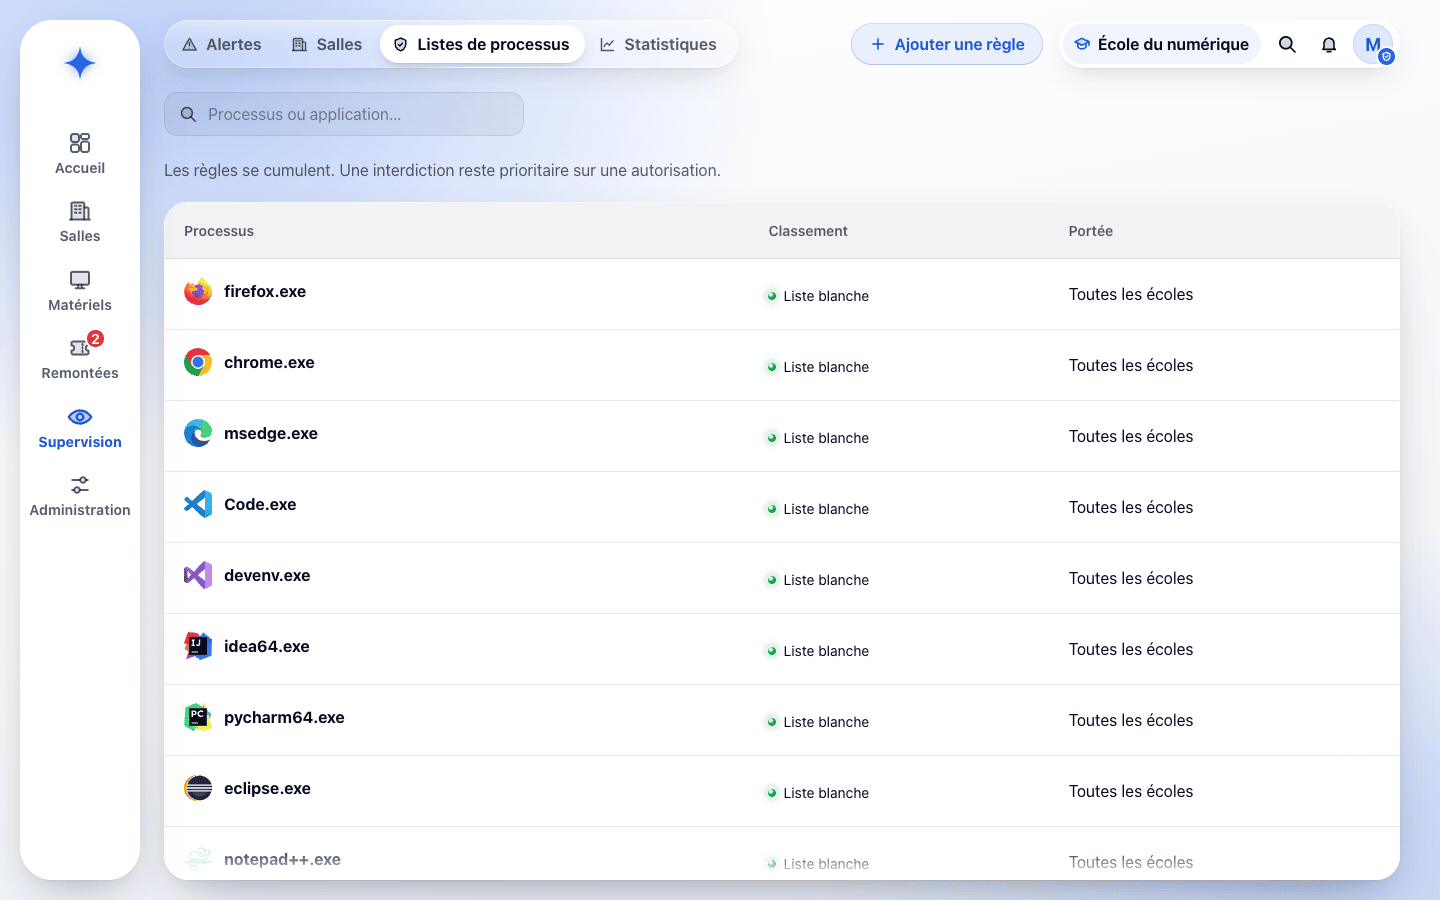
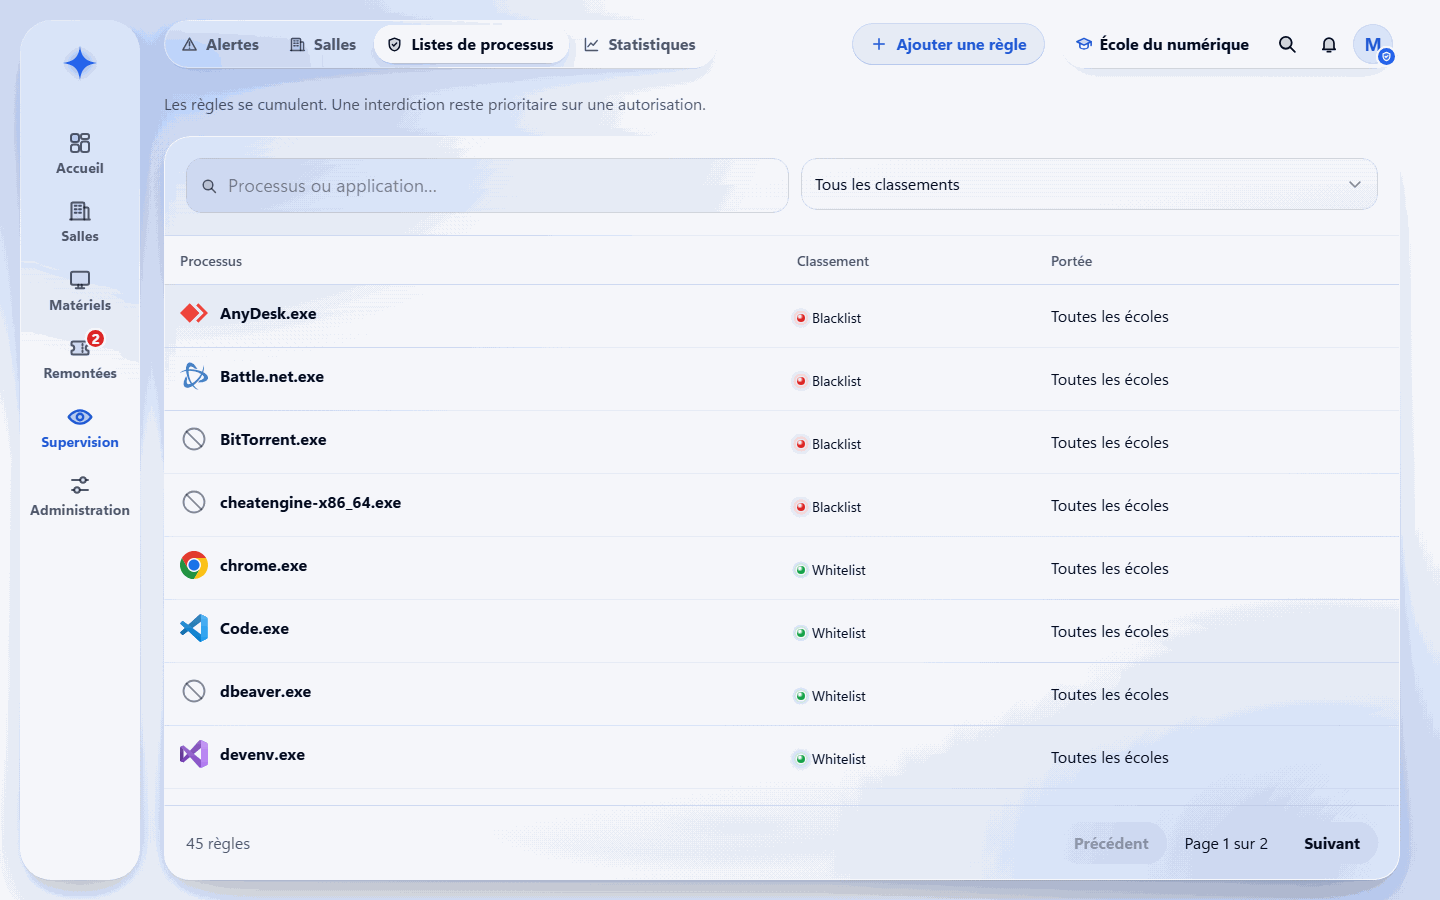
feat(supervision): paginer et filtrer la liste des règles
Liste sur DataPanel : recherche, filtre par classement, ordre alphabétique, 25 par page ; module des règles séparé ; capture 42 régénérée.

diff --git a/application/frontend/src/espace/views/supervision/supervision.tsx b/application/frontend/src/espace/views/supervision/supervision.tsx
@@ -10,28 +10,24 @@
 import { FilterSelect } from '../../ui/filter-select.tsx';
 import { useEffect, useState } from 'react';
 import { useParams, useSearchParams } from 'react-router';
-import { store, currentEcole, me } from '../../core/store.ts';
+import { store } from '../../core/store.ts';
 import { useStore } from '../../hooks/use-store.ts';
-import { scope, index, optionsSalles, detections, batiments, batimentLabel } from '../../core/selectors.ts';
+import { scope, index, optionsSalles, detections } from '../../core/selectors.ts';
 import { uid } from '../../core/dom.ts';
 import { can } from '../../core/permissions.ts';
 import { matcher } from '../../core/search.ts';
-import { CLASSEMENTS } from '#shared/catalog.ts';
-import { processClass, logiciel } from '#shared/referentiels.ts';
+import { processClass } from '#shared/referentiels.ts';
 import { Icon, Tile } from '../../ui/icons.tsx';
 import { AppIcon } from '../../ui/app-icon.tsx';
-import { Sheet, openSheet, confirmSheet, notify } from '../../ui/overlays.tsx';
-import { SheetForm, SheetFormActions } from '../../ui/forms.tsx';
+import { notify } from '../../ui/overlays.tsx';
 import { OpsEmpty, OpsTable, PageHead, PosteEtat, SearchField } from '../../widgets/parts.tsx';
 import { dateTime, clock, num, plural } from '#shared/format.ts';
 import { useTitle } from '../../hooks/use-title.ts';
-import type { Classement, Id, Intervention, Portee, Processus, Regle, WorkspaceView } from '#shared/types.ts';
+import { Rules, openRuleForm } from './supervision-regles.tsx';
+import { Status, processText } from './supervision-parts.tsx';
+import type { Id, Intervention, Processus, WorkspaceView } from '#shared/types.ts';
 
 const time = () => clock(Date.now());
-
-function Status({ c }: { c: Classement }) {
-  return <span className="ops-status"><span className={`led led--${CLASSEMENTS[c]?.led || 'wait'}`}></span>{CLASSEMENTS[c]?.label || c}</span>;
-}
 
 const Empty = ({ title, text }: { title: string; text: string }) => <OpsEmpty icon="supervision" title={title} text={text} />;
 
@@ -42,10 +38,7 @@ const TITLES = {
   statistiques: 'Utilisation du parc',
 };
 type Tab = keyof typeof TITLES;
-const SEARCH: Record<Tab, string> = { alertes: 'Processus, poste, IP ou compte…', salles: 'Poste, processus ou compte…', listes: 'Processus ou application…', statistiques: 'Processus ou application…' };
-
-// Un exécutable se cherche aussi par le nom de son application
-const processText = (nom: string) => `${nom} ${logiciel(nom)?.nom ?? ''}`;
+const SEARCH: Record<Exclude<Tab, 'listes'>, string> = { alertes: 'Processus, poste, IP ou compte…', salles: 'Poste, processus ou compte…', statistiques: 'Processus ou application…' };
 
 export function Supervision() {
   useTitle('Supervision');
@@ -77,18 +70,20 @@ export function Supervision() {
         ? <button className="btn btn--primary" onClick={() => openRuleForm()}><Icon name="plus" size={18} /><span>Ajouter une règle</span></button>
         : <span className="ops-status"><span className="led led--ok"></span><span>Actualisé à {stamp}</span></span>}
     </PageHead>
-    <div className="ops-toolbar">
-      {['salles', 'alertes'].includes(tab) && <div className="field"><span className="field-label">Salle à superviser</span>
-        <FilterSelect aria-label="Salle à superviser" value={salleId} onChange={(e) => setSalleId(e.target.value)} options={[{ value: '', label: 'Choisir une salle' }, ...optionsSalles()]} />
-      </div>}
-      <SearchField compact value={query} onChange={setQuery} placeholder={SEARCH[tab]} label="Rechercher" />
-    </div>
-    <div>
-      {tab === 'listes' ? <Rules query={query} />
-        : tab === 'salles' ? <Rooms salleId={salleId} query={query} relevant={relevant} />
+    {/* Règles : liste filtrable et paginée, avec sa propre recherche */}
+    {tab === 'listes' ? <Rules /> : <>
+      <div className="ops-toolbar">
+        {['salles', 'alertes'].includes(tab) && <div className="field"><span className="field-label">Salle à superviser</span>
+          <FilterSelect aria-label="Salle à superviser" value={salleId} onChange={(e) => setSalleId(e.target.value)} options={[{ value: '', label: 'Choisir une salle' }, ...optionsSalles()]} />
+        </div>}
+        <SearchField compact value={query} onChange={setQuery} placeholder={SEARCH[tab]} label="Rechercher" />
+      </div>
+      <div>
+        {tab === 'salles' ? <Rooms salleId={salleId} query={query} relevant={relevant} />
           : tab === 'statistiques' ? <Stats relevant={relevant} query={query} />
             : <Alerts salleId={salleId} query={query} />}
-    </div>
+      </div>
+    </>}
   </>;
 }
 
@@ -150,41 +145,6 @@ function Alerts({ salleId, query }: { salleId: Id; query: string }) {
   </OpsTable>;
 }
 
-async function deleteRule(id: Id) {
-  try {
-    if (!await confirmSheet({ title: 'Supprimer cette règle ?', message: 'Les autres règles applicables restent actives.' })) return;
-    await store.update('data', (s) => { s.regles = s.regles.filter((r) => r.id !== id); });
-    await store.flush();
-    notify('Règle supprimée', { icon: 'check' });
-  } catch (error) { notify((error as Error).message, { tone: 'danger' }); }
-}
-
-function Rules({ query }: { query: string }) {
-  const e = currentEcole();
-  const matches = matcher(query);
-  const scopeLabel = (r: Regle) => (r.portee === 'global' ? 'Toutes les écoles' : r.portee === 'ecole' ? index().ecole.get(r.ecoleId!)?.nom : r.portee === 'batiment' ? batimentLabel(r.batiment!) : index().salle.get(r.salleId!)?.nom);
-  const rules = (store.state.regles || []).filter((r) => (r.portee === 'global' || e === 'all' || r.ecoleId === e)
-    && matches(processText(r.nom), CLASSEMENTS[r.classement]?.label, scopeLabel(r)));
-  // Règle globale : réservée au super administrateur ; sans règle modifiable, pas de colonne Actions
-  const editable = (r: Regle) => r.portee !== 'global' || me().role === 'superadmin';
-  const actions = rules.some(editable);
-  return <>
-    <p className="ops-muted" style={{ marginBottom: 20 }}>Les règles se cumulent. Une interdiction reste prioritaire sur une autorisation.</p>
-    <OpsTable head={['Processus', 'Classement', 'Portée', ...(actions ? ['Actions'] : [])]}>
-      {!rules.length && <tr><td colSpan={actions ? 4 : 3}><div className="w-empty w-empty--l">Aucune règle ne correspond à cette recherche.</div></td></tr>}
-      {rules.map((r) => <tr key={r.id}>
-        <td><span className="app-cell"><AppIcon name={r.nom} /><strong>{r.nom}</strong></span></td>
-        <td><Status c={r.classement} /></td>
-        <td>{scopeLabel(r)}</td>
-        {actions && <td>{editable(r) && <>
-          <button className="icon-btn" onClick={() => openRuleForm(store.state.regles.find((x) => x.id === r.id))} aria-label={`Modifier ${r.nom}`}><Icon name="pencil" size={17} /></button>
-          <button className="icon-btn" onClick={() => deleteRule(r.id)} aria-label={`Supprimer ${r.nom}`}><Icon name="trash" size={17} /></button>
-        </>}</td>}
-      </tr>)}
-    </OpsTable>
-  </>;
-}
-
 function Stats({ relevant, query }: { relevant: Processus[]; query: string }) {
   const postes = scope().postes;
   const allumes = postes.filter((p) => p.allume).length;
@@ -208,56 +168,4 @@ function Stats({ relevant, query }: { relevant: Processus[]; query: string }) {
       </article>)}</div>
       : <p className="ops-muted">{counts.size ? 'Aucun processus détecté ne correspond à cette recherche.' : 'Aucun processus détecté.'}</p>}
   </>;
-}
-
-const PORTEES: Record<Portee, string> = { global: 'Globale', ecole: 'École', batiment: 'Bâtiment', salle: 'Salle' };
-/** Champs saisis d'une règle ; école absente si la salle choisie est introuvable */
-type RegleSaisie = Omit<Regle, 'id' | 'ecoleId'> & { ecoleId?: Id | null };
-
-function openRuleForm(rule: Regle | null = null) {
-  openSheet(<Sheet title={rule ? 'Modifier la règle' : 'Ajouter une règle'} lead={<Tile name="shield" color="var(--accent)" size="m" />}
-    footer={<SheetFormActions form="rule-form" />}>
-    <RuleForm rule={rule} />
-  </Sheet>);
-}
-
-function RuleForm({ rule }: { rule: Regle | null }) {
-  const state = useStore();
-  const ecole = currentEcole() === 'all' ? state.ecoles[0]?.id : currentEcole();
-
-  async function save(form: FormData) {
-    const values = Object.fromEntries(form) as RegleSaisie;
-    values.nom = values.nom.trim();
-    const room = scope().salles.find((s) => s.id === values.salleId);
-    if (values.portee === 'salle') values.ecoleId = room?.ecoleId;
-    if (values.portee === 'global') values.ecoleId = null;
-    await store.update('data', (s) => {
-      const item = { id: rule?.id || uid('rule'), ...values } as Regle;
-      if (rule) s.regles.splice(s.regles.findIndex((r) => r.id === rule.id), 1, item); else s.regles.push(item);
-    });
-    await store.flush();
-    notify('Règle enregistrée', { icon: 'shield', tone: 'info' });
-  }
-
-  return <SheetForm id="rule-form" onSave={save}>
-    <label className="field"><span className="field-label">Nom du processus *</span><input name="nom" defaultValue={rule?.nom || ''} required maxLength={100} placeholder="application.exe" /></label>
-    <div className="form-2">
-      <div className="field"><span className="field-label">Classement</span>
-        <FilterSelect aria-label="Classement" name="classement" defaultValue={rule?.classement} options={[{ value: 'whitelist', label: 'Autorisé (whitelist)' }, { value: 'blacklist', label: 'Interdit (blacklist)' }]} />
-      </div>
-      <div className="field"><span className="field-label">Portée</span>
-        <FilterSelect aria-label="Portée" name="portee" defaultValue={rule?.portee}
-          options={((me().role === 'superadmin' ? ['global', 'ecole', 'batiment', 'salle'] : ['ecole', 'batiment', 'salle']) as Portee[]).map((p) => ({ value: p, label: PORTEES[p] }))} />
-      </div>
-      <div className="field"><span className="field-label">École</span>
-        <FilterSelect aria-label="École" name="ecoleId" defaultValue={(rule?.ecoleId || ecole) ?? undefined} options={state.ecoles.map((e) => ({ value: e.id, label: e.nom }))} />
-      </div>
-      <div className="field"><span className="field-label">Bâtiment</span>
-        <FilterSelect aria-label="Bâtiment" name="batiment" defaultValue={rule?.batiment} options={batiments().map((b) => ({ value: b, label: b }))} />
-      </div>
-      <div className="field"><span className="field-label">Salle</span>
-        <FilterSelect aria-label="Salle" name="salleId" defaultValue={rule?.salleId} options={optionsSalles()} />
-      </div>
-    </div>
-  </SheetForm>;
 }

diff --git a/application/frontend/src/espace/views/supervision/supervision-regles.tsx b/application/frontend/src/espace/views/supervision/supervision-regles.tsx
@@ -1,0 +1,127 @@
+/* ==========================================================================
+   Supervision › Règles de processus (whitelist / blacklist) : liste
+   filtrable et paginée, formulaire d'ajout et de modification. Une règle
+   globale n'est modifiable que par le super administrateur (RG-50) ; le
+   serveur contrôle nom, classement et portée (RG-47).
+   ========================================================================== */
+
+import { useState } from 'react';
+import { FilterSelect } from '../../ui/filter-select.tsx';
+import { store, currentEcole, me } from '../../core/store.ts';
+import { useStore } from '../../hooks/use-store.ts';
+import { scope, index, optionsSalles, batiments, batimentLabel } from '../../core/selectors.ts';
+import { uid } from '../../core/dom.ts';
+import { matcher } from '../../core/search.ts';
+import { CLASSEMENTS } from '#shared/catalog.ts';
+import { Tile, Icon } from '../../ui/icons.tsx';
+import { AppIcon } from '../../ui/app-icon.tsx';
+import { Sheet, openSheet, confirmSheet, notify } from '../../ui/overlays.tsx';
+import { SheetForm, SheetFormActions } from '../../ui/forms.tsx';
+import { DataPanel, Pagination, SearchField, paginate } from '../../widgets/parts.tsx';
+import { plural } from '#shared/format.ts';
+import { Status, processText } from './supervision-parts.tsx';
+import type { Id, Portee, Regle } from '#shared/types.ts';
+
+const RULES_PAGE = 25;
+const PORTEES: Record<Portee, string> = { global: 'Globale', ecole: 'École', batiment: 'Bâtiment', salle: 'Salle' };
+const CLASSES = [{ value: '', label: 'Tous les classements' }, ...(['whitelist', 'blacklist'] as const).map((c) => ({ value: c, label: CLASSEMENTS[c].label }))];
+
+const scopeLabel = (r: Regle) => (r.portee === 'global' ? 'Toutes les écoles' : r.portee === 'ecole' ? index().ecole.get(r.ecoleId!)?.nom : r.portee === 'batiment' ? batimentLabel(r.batiment!) : index().salle.get(r.salleId!)?.nom);
+// Règle globale : réservée au super administrateur
+const editable = (r: Regle) => r.portee !== 'global' || me().role === 'superadmin';
+
+async function deleteRule(id: Id) {
+  try {
+    if (!await confirmSheet({ title: 'Supprimer cette règle ?', message: 'Les autres règles applicables restent actives.' })) return;
+    await store.update('data', (s) => { s.regles = s.regles.filter((r) => r.id !== id); });
+    await store.flush();
+    notify('Règle supprimée', { icon: 'check' });
+  } catch (error) { notify((error as Error).message, { tone: 'danger' }); }
+}
+
+/** Règles visibles dans l'école affichée, par nom de processus ; un filtre revient à la première page */
+export function Rules() {
+  useStore();
+  const [query, setQuery] = useState('');
+  const [classement, setClassement] = useState('');
+  const [page, setPage] = useState(1);
+  const filter = (set: (value: string) => void) => (value: string) => { set(value); setPage(1); };
+  const e = currentEcole();
+  const matches = matcher(query);
+  const rules = (store.state.regles || []).filter((r) => (r.portee === 'global' || e === 'all' || r.ecoleId === e) && (!classement || r.classement === classement)
+    && matches(processText(r.nom), CLASSEMENTS[r.classement]?.label, scopeLabel(r)))
+    .sort((a, b) => a.nom.localeCompare(b.nom, 'fr', { sensitivity: 'base' }));
+  const { pages, current, rows } = paginate(rules, page, RULES_PAGE);
+  const actions = rules.some(editable); // sans règle modifiable, pas de colonne Actions
+  return <>
+    <p className="ops-muted" style={{ marginBottom: 20 }}>Les règles se cumulent. Une interdiction reste prioritaire sur une autorisation.</p>
+    <DataPanel
+      filters={<>
+        <SearchField value={query} onChange={filter(setQuery)} placeholder="Processus ou application…" label="Rechercher" />
+        <FilterSelect aria-label="Filtrer par classement" value={classement} onChange={(ev) => filter(setClassement)(ev.target.value)} options={CLASSES} />
+      </>}
+      head={<><th>Processus</th><th>Classement</th><th>Portée</th>{actions && <th><span className="sr-only">Actions</span></th>}</>}
+      footer={<Pagination current={current} pages={pages} onPage={setPage} total={plural(rules.length, 'règle')} />}>
+      {rows.length ? rows.map((r) => <tr key={r.id}>
+        <td><span className="app-cell"><AppIcon name={r.nom} /><strong>{r.nom}</strong></span></td>
+        <td><Status c={r.classement} /></td>
+        <td>{scopeLabel(r)}</td>
+        {actions && <td>{editable(r) && <>
+          <button className="icon-btn" onClick={() => openRuleForm(r)} aria-label={`Modifier ${r.nom}`}><Icon name="pencil" size={17} /></button>
+          <button className="icon-btn" onClick={() => deleteRule(r.id)} aria-label={`Supprimer ${r.nom}`}><Icon name="trash" size={17} /></button>
+        </>}</td>}
+      </tr>) : <tr><td colSpan={actions ? 4 : 3}><div className="w-empty w-empty--l">Aucune règle ne correspond à cette recherche.</div></td></tr>}
+    </DataPanel>
+  </>;
+}
+
+/** Champs saisis d'une règle ; école absente si la salle choisie est introuvable */
+type RegleSaisie = Omit<Regle, 'id' | 'ecoleId'> & { ecoleId?: Id | null };
+
+export function openRuleForm(rule: Regle | null = null) {
+  openSheet(<Sheet title={rule ? 'Modifier la règle' : 'Ajouter une règle'} lead={<Tile name="shield" color="var(--accent)" size="m" />}
+    footer={<SheetFormActions form="rule-form" />}>
+    <RuleForm rule={rule} />
+  </Sheet>);
+}
+
+function RuleForm({ rule }: { rule: Regle | null }) {
+  const state = useStore();
+  const ecole = currentEcole() === 'all' ? state.ecoles[0]?.id : currentEcole();
+
+  async function save(form: FormData) {
+    const values = Object.fromEntries(form) as RegleSaisie;
+    values.nom = values.nom.trim();
+    const room = scope().salles.find((s) => s.id === values.salleId);
+    if (values.portee === 'salle') values.ecoleId = room?.ecoleId;
+    if (values.portee === 'global') values.ecoleId = null;
+    await store.update('data', (s) => {
+      const item = { id: rule?.id || uid('rule'), ...values } as Regle;
+      if (rule) s.regles.splice(s.regles.findIndex((r) => r.id === rule.id), 1, item); else s.regles.push(item);
+    });
+    await store.flush();
+    notify('Règle enregistrée', { icon: 'shield', tone: 'info' });
+  }
+
+  return <SheetForm id="rule-form" onSave={save}>
+    <label className="field"><span className="field-label">Nom du processus *</span><input name="nom" defaultValue={rule?.nom || ''} required maxLength={100} placeholder="application.exe" /></label>
+    <div className="form-2">
+      <div className="field"><span className="field-label">Classement</span>
+        <FilterSelect aria-label="Classement" name="classement" defaultValue={rule?.classement} options={[{ value: 'whitelist', label: 'Autorisé (whitelist)' }, { value: 'blacklist', label: 'Interdit (blacklist)' }]} />
+      </div>
+      <div className="field"><span className="field-label">Portée</span>
+        <FilterSelect aria-label="Portée" name="portee" defaultValue={rule?.portee}
+          options={((me().role === 'superadmin' ? ['global', 'ecole', 'batiment', 'salle'] : ['ecole', 'batiment', 'salle']) as Portee[]).map((p) => ({ value: p, label: PORTEES[p] }))} />
+      </div>
+      <div className="field"><span className="field-label">École</span>
+        <FilterSelect aria-label="École" name="ecoleId" defaultValue={(rule?.ecoleId || ecole) ?? undefined} options={state.ecoles.map((e) => ({ value: e.id, label: e.nom }))} />
+      </div>
+      <div className="field"><span className="field-label">Bâtiment</span>
+        <FilterSelect aria-label="Bâtiment" name="batiment" defaultValue={rule?.batiment} options={batiments().map((b) => ({ value: b, label: b }))} />
+      </div>
+      <div className="field"><span className="field-label">Salle</span>
+        <FilterSelect aria-label="Salle" name="salleId" defaultValue={rule?.salleId} options={optionsSalles()} />
+      </div>
+    </div>
+  </SheetForm>;
+}

diff --git a/application/tests/espace-suivi.spec.ts b/application/tests/espace-suivi.spec.ts
@@ -121,11 +121,16 @@ test('supervision : Alertes par défaut ; la recherche ignore casse et espaces, 
   await open(page, '/supervision/listes');
   const search = page.getByRole('searchbox', { name: 'Rechercher', exact: true });
   await search.fill('  LibreOffice ');
-  await expect(page.locator('.ops-table tbody tr')).toHaveText([/soffice\.exe/, /soffice\.bin/]);
+  await expect(page.locator('.inv-table tbody tr')).toHaveText([/soffice\.bin/, /soffice\.exe/]);
   await search.fill('blacklist STEAM');
-  await expect(page.locator('.ops-table tbody tr')).toHaveText([/steam\.exe/]);
+  await expect(page.locator('.inv-table tbody tr')).toHaveText([/steam\.exe/]);
+  // Filtre par classement : aucune règle autorisée ne correspond à « steam »
+  await page.getByRole('combobox', { name: 'Filtrer par classement' }).click();
+  await page.getByRole('listbox').getByRole('option', { name: 'Whitelist', exact: true }).click();
+  await search.fill('steam');
+  await expect(page.locator('.inv-table tbody tr')).toHaveText([/Aucune règle/]);
   await search.fill('processus-absent');
-  await expect(page.locator('.ops-table tbody tr')).toHaveText([/Aucune règle/]);
+  await expect(page.locator('.inv-table tbody tr')).toHaveText([/Aucune règle/]);
   // Un poste trouvé par un processus ne montre que les processus correspondants
   await open(page, '/supervision/salles?salle=s-e-num-a101');
   await search.fill('FIREFOX');

diff --git a/application/frontend/src/espace/views/supervision/supervision-parts.tsx b/application/frontend/src/espace/views/supervision/supervision-parts.tsx
@@ -1,0 +1,15 @@
+/* ==========================================================================
+   Supervision : éléments communs aux onglets (classement d'un processus,
+   texte de recherche d'un exécutable).
+   ========================================================================== */
+
+import { CLASSEMENTS } from '#shared/catalog.ts';
+import { logiciel } from '#shared/referentiels.ts';
+import type { Classement } from '#shared/types.ts';
+
+export function Status({ c }: { c: Classement }) {
+  return <span className="ops-status"><span className={`led led--${CLASSEMENTS[c]?.led || 'wait'}`}></span>{CLASSEMENTS[c]?.label || c}</span>;
+}
+
+/** Un exécutable se cherche aussi par le nom de son application */
+export const processText = (nom: string) => `${nom} ${logiciel(nom)?.nom ?? ''}`;

diff --git a/application/tests/espace-affichage.spec.ts b/application/tests/espace-affichage.spec.ts
@@ -331,7 +331,8 @@ test('le menu principal n’a pas de bulle ; les règles de processus portent le
   await expect(page.locator('.rail-lens')).toHaveCount(0);
   await expect(page.locator('.rail-item.is-active')).toHaveAttribute('data-nav', 'supervision');
   for (const nom of ['firefox.exe', 'Code.exe', 'steam.exe']) {
-    await expect(page.locator('.ops-table tr', { hasText: nom }).locator('img.app-icon')).toHaveCount(1);
+    await page.getByRole('searchbox', { name: 'Rechercher', exact: true }).fill(nom);
+    await expect(page.locator('.inv-table tr', { hasText: nom }).locator('img.app-icon')).toHaveCount(1);
   }
 });
 
